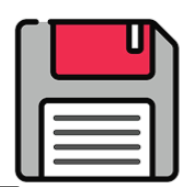
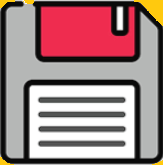
retoques en artistas

diff --git a/Proyecto_IPO1/formulario_Artista.xaml b/Proyecto_IPO1/formulario_Artista.xaml
@@ -124,7 +124,8 @@
                                         <Image x:Name="imgCaratula" Width="100" Height="120" Source="{Binding SelectedItem.Caratula, ElementName=lstListaArtistas}" Stretch="Fill"/>
                                     </Border>
 
-                                    <Button x:Name="btnCargarImagen" Content="+" ToolTip="Cambiar imagen" VerticalAlignment="Bottom" HorizontalAlignment="Right" Margin="5" FontSize="30" FontWeight="Bold" Background="Transparent" BorderBrush="Transparent" Foreground="#36BA98"/>
+                                    <Button x:Name="btnCargarImagen" Click="btnCargarImagen_Click"
+                                            Content="+" ToolTip="Cambiar imagen" VerticalAlignment="Bottom" HorizontalAlignment="Right" Margin="5" FontSize="30" FontWeight="Bold" Background="Transparent" BorderBrush="Transparent" Foreground="#36BA98"/>
                                 </Grid>
 
                                 <Label x:Name="lblArtista" Grid.Row="0" Grid.Column="1" FontWeight="Bold" FontSize="15" Content="Contacto:"/>
@@ -174,7 +175,14 @@
                                 <TextBox x:Name="txtInfoArtista" TextWrapping="Wrap" AcceptsReturn="True" VerticalScrollBarVisibility="Visible" Margin="5" Text="{Binding SelectedItem.Integrantes, ElementName=lstListaArtistas}" Background="#E9C46A" BorderBrush="Transparent"/>
                             </Expander>
                         </GroupBox>
-                        <Button x:Name="btnGuardar" Grid.Row="4" Content="Guardar" FontSize="16" FontWeight="Bold" Width="130" ToolTip="Pulsar para guardar" HorizontalAlignment="Right" Margin="0,20,28,-20" Background="#E9C46A"/>
+                        <Button x:Name="btnGuardar" Grid.Row="4" Width="130" ToolTip="Pulsar para guardar" 
+                                HorizontalAlignment="Right" Margin="0,20,28,-20" Background="#E9C46A" Click="btnGuardar_Click">
+                            <StackPanel Orientation="Horizontal">
+                                <Image Source="Images/guardar.png" Width="32" Height="32" Margin="0,0,5,0"/>
+                                <TextBlock Text="Guardar"
+                                FontSize="16" FontWeight="Bold" VerticalAlignment="Center"/>
+                            </StackPanel>
+                        </Button>
                     </Grid>
                 </GroupBox>
             </StackPanel>

diff --git a/Proyecto_IPO1/formulario_Festivales.xaml b/Proyecto_IPO1/formulario_Festivales.xaml
@@ -228,12 +228,17 @@
                         </GroupBox>
                         <Button x:Name="btnGuardar"
                                         Grid.Row="4"
-                                        Content="Guardar"
-                                        FontSize="16" FontWeight="Bold"
                                         Width="130"
                                         ToolTip="Pulsar para guardar"
                                         HorizontalAlignment="Right"
-                                        Margin="0,20,28,-20" Background="#E9C46A" Click="btnGuardar_Click"/>
+                                        Margin="0,20,28,-20" Background="#E9C46A" Click="btnGuardar_Click">
+                            <StackPanel Orientation="Horizontal">
+                                <Image Source="Images/guardar.png" Width="32" Height="32" Margin="0,0,5,0"/>
+                                <TextBlock Text="Guardar"
+                                           FontSize="16" FontWeight="Bold" VerticalAlignment="Center"/>
+                            </StackPanel>
+
+                        </Button>
                     </Grid>
                 </GroupBox>
             </StackPanel>

diff --git a/Proyecto_IPO1/Ventana_guardar.xaml b/Proyecto_IPO1/Ventana_guardar.xaml
@@ -18,6 +18,6 @@ WindowStartupLocation="CenterScreen" Height="300" Width="450">
         <Button x:Name="btnVolver"
                 Grid.Row="1"
                 Content="Volver"
-                FontSize="20" FontWeight="Bold" Height="50" Width="100" VerticalAlignment="Center" HorizontalAlignment="Center" />
+                FontSize="20" FontWeight="Bold" Height="50" Width="100" VerticalAlignment="Center" HorizontalAlignment="Center" Click="btnVolver_Click" />
     </Grid>
 </Window>

diff --git a/Proyecto_IPO1/formulario_Artista.xaml.cs b/Proyecto_IPO1/formulario_Artista.xaml.cs
@@ -1,4 +1,5 @@
-using System;
+using Microsoft.Win32;
+using System;
 using System.Collections.Generic;
 using System.Globalization;
 using System.Linq;
@@ -73,14 +74,26 @@ namespace Proyecto_IPO1
 
         private void btnGuardar_Click(object sender, RoutedEventArgs e)
         {
+            // Crear lista para almacenar los festivales
+            List<string> festivales = new List<string>();
 
-            ArtistaGuardar.Nombre = txtNombre.Text;
-            ArtistaGuardar.Integrantes = txtInfoArtista.Text;
-            ArtistaGuardar.Genero = cbGenero.Text;
-            ArtistaGuardar.Redes_sociales = new Uri(txtweb.Text, UriKind.Absolute);
-            ArtistaGuardar.Descripcion = txtDescripción.Text;
-            ArtistaGuardar.Contacto = txtContacto.Text;
-            ArtistaGuardar.Estado = cbEstado.Text;
+            // Recorrer los elementos del ListBox y agregarlos a la lista
+            foreach (var item in lbFestivales.Items)
+            {
+                festivales.Add(item.ToString());
+            }
+            var ArtistaGuardar = new Artista("", "", "", null, "", null, "", "", null)
+            {
+                Nombre = txtNombre.Text,
+                Integrantes = txtInfoArtista.Text,
+                Genero = cbGenero.Text,
+                Redes_sociales = new Uri(txtweb.Text, UriKind.Absolute),
+                Descripcion = txtDescripción.Text,
+                Contacto = txtContacto.Text,
+                Estado = cbEstado.Text,
+                Festivales = festivales,
+                Caratula = new Uri(imgCaratula.Source.ToString()),
+            };
 
             ventana = new Ventana_guardar(ArtistaGuardar);
             ventana.Show();
@@ -98,6 +111,24 @@ namespace Proyecto_IPO1
         private void miEliminarItemLB_Click(object sender, RoutedEventArgs e)
         {
             lstListaArtistas.Items.Remove(lstListaArtistas.SelectedItem);
+        }
+
+        private void btnCargarImagen_Click(object sender, RoutedEventArgs e)
+        {
+            var abrirDialog = new OpenFileDialog();
+            abrirDialog.Filter = "Images|*.jpg;*.gif;*.bmp;*.png";
+            if (abrirDialog.ShowDialog() == true)
+            {
+                try
+                {
+                    var bitmap = new BitmapImage(new Uri(abrirDialog.FileName, UriKind.Absolute));
+                    imgCaratula.Source = bitmap;
+                }
+                catch (Exception ex)
+                {
+                    MessageBox.Show("Error al cargar la imagen " + ex.Message);
+                }
+            }
         }
     }
 

diff --git a/Proyecto_IPO1/Ventana_guardar.xaml.cs b/Proyecto_IPO1/Ventana_guardar.xaml.cs
@@ -23,8 +23,8 @@ namespace Proyecto_IPO1
         {
             InitializeComponent();
             String DatosArtistas = "Datos de los artistas a guardar: \n";
-            DatosArtistas += "Nombre: " + artista.Nombre + "Contacto: " + artista.Contacto +
-                "Genero: " + artista.Genero + "Estado: " + artista.Estado;
+            DatosArtistas += "Nombre: " + artista.Nombre + "\nContacto: " + artista.Contacto +
+                 "\nGenero: " + artista.Genero + "\nEstado: " + artista.Estado;
 
             txtContenido.Text = DatosArtistas;
         }
@@ -32,6 +32,7 @@ namespace Proyecto_IPO1
         private void btnVolver_Click(object sender, RoutedEventArgs e)
         {
             this.Visibility = Visibility.Hidden;
+            this.Close();
         }
     }
 }

diff --git a/Proyecto_IPO1/MainWindow.xaml.cs b/Proyecto_IPO1/MainWindow.xaml.cs
@@ -67,7 +67,7 @@ namespace Proyecto_IPO1
 
                     formulario_Festivales formulario_festival = new formulario_Festivales();
                     formulario_festival.Show();
-                    this.Close(); // Opcionalmente cierra la ventana actual.
+                   
 
                 }
                 else
